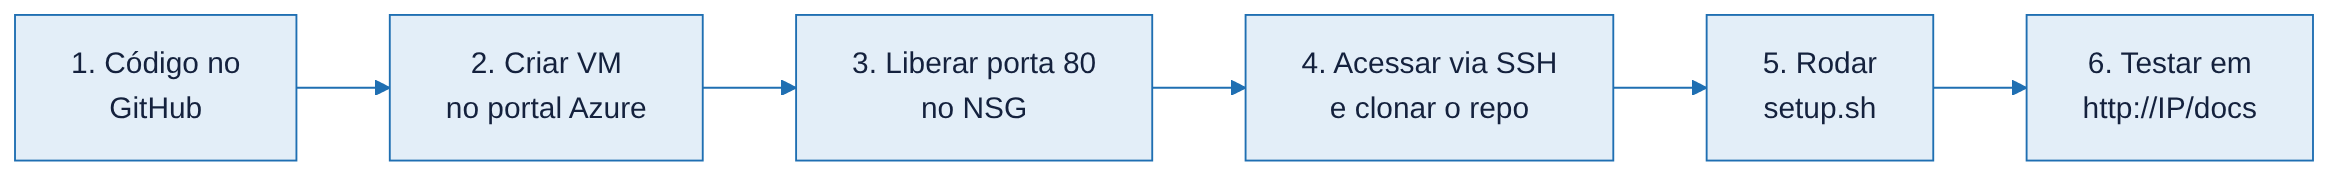
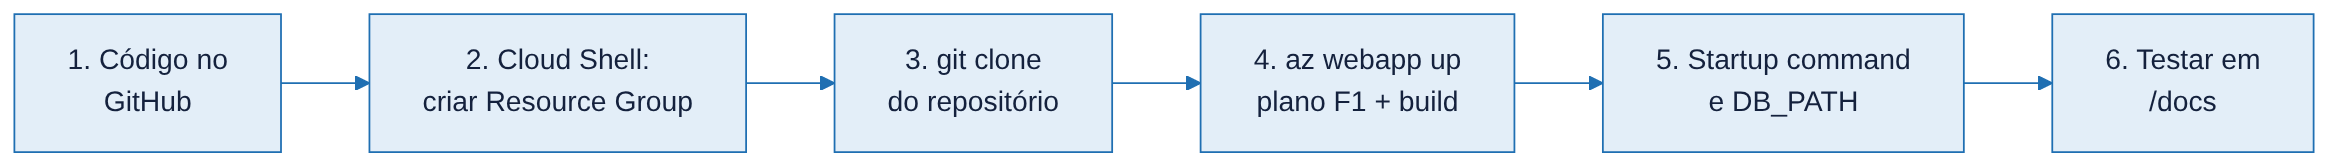
Add files via upload

Changed region(s): [[0.0, 0.0595, 0.9932, 0.9226]]

diff --git a/app/database.py b/app/database.py
@@ -2,7 +2,8 @@
 import os
 import sqlite3
 
-# Caminho do arquivo do banco. Na VM fica em /var/lib/api-tarefas/tarefas.db
+# Caminho do arquivo do banco. No Azure App Service fica em /home/tarefas.db
+# (pasta /home é o armazenamento persistente do App Service)
 DB_PATH = os.getenv("DB_PATH", "tarefas.db")
 
 

diff --git a/app/main.py b/app/main.py
@@ -16,7 +16,7 @@ async def lifespan(app: FastAPI):
 
 app = FastAPI(
     title="API de Tarefas",
-    description="API básica com SQLite hospedada em uma VM no Azure.",
+    description="API básica com SQLite hospedada no Azure App Service.",
     version="1.0.0",
     lifespan=lifespan,
 )

diff --git a/README.md b/README.md
@@ -1,9 +1,11 @@
-# API de Tarefas — FastAPI + SQLite no Azure
+# API de Tarefas — FastAPI + SQLite no Azure App Service
 
-API REST básica para cadastrar tarefas, com banco **SQLite**, hospedada de ponta a ponta em uma **máquina virtual Linux no Microsoft Azure**.
+API REST básica para cadastrar tarefas, com banco **SQLite**, hospedada de ponta a ponta no **Azure App Service (plano F1, gratuito)**.
 
-- **URL da API:** `http://<IP_PUBLICO_DA_VM>`
-- **Documentação interativa (Swagger):** `http://<IP_PUBLICO_DA_VM>/docs`
+- **URL da API:** https://api-tarefas-noah567256.azurewebsites.net
+- **Documentação interativa (Swagger):** https://api-tarefas-noah567256.azurewebsites.net/docs
+
+Aluno: Noah Nascimento · RM 567256
 
 ## Tecnologias
 
@@ -12,15 +14,26 @@ API REST básica para cadastrar tarefas, com banco **SQLite**, hospedada de pont
 | Linguagem | Python 3.12 |
 | Framework da API | FastAPI + Pydantic |
 | Servidor de aplicação | Uvicorn |
-| Proxy reverso | Nginx |
-| Banco de dados | SQLite (arquivo `tarefas.db`) |
-| Nuvem | Microsoft Azure: VM Standard_B1s, Ubuntu 24.04 LTS |
+| Banco de dados | SQLite (arquivo `/home/tarefas.db`) |
+| Nuvem | Microsoft Azure App Service, Linux, plano F1 (Free), região East US |
+| Implantação | Azure Cloud Shell + Azure CLI (`az webapp up`) |
 
 ## Arquitetura
 
 ![Arquitetura](docs/diagramas/arquitetura.png)
 
-O usuário acessa o IP público da VM na porta 80. O NSG (firewall do Azure) libera só as portas 22 (SSH) e 80 (HTTP). Dentro da VM, o Nginx recebe a requisição e repassa para o Uvicorn na porta 8000, que roda a API em FastAPI. A API grava e lê os dados no arquivo SQLite, que fica no disco gerenciado da VM.
+O usuário acessa a URL `*.azurewebsites.net` por HTTPS. O front-end do App Service cuida do certificado TLS e repassa a requisição para o contêiner Linux onde o Uvicorn roda a API FastAPI na porta 8000. A API grava e lê os dados no arquivo SQLite que fica em `/home`, a área de armazenamento persistente do App Service.
+
+## Recursos de nuvem
+
+| Recurso | Configuração |
+|---|---|
+| Resource Group | `rg-api-tarefas` |
+| Região | East US |
+| App Service Plan | SKU **F1 (Free)**, Linux: 1 GB de memória, 1 GB de armazenamento, 60 min de CPU/dia |
+| Web App | `api-tarefas-noah567256`, Python 3.12 |
+| Startup command | `python -m uvicorn app.main:app --host 0.0.0.0 --port 8000` |
+| Variável de ambiente | `DB_PATH=/home/tarefas.db` |
 
 ## Banco de dados
 
@@ -44,8 +57,35 @@ O usuário acessa o IP público da VM na porta 80. O NSG (firewall do Azure) lib
 Exemplo de corpo para POST/PUT:
 
 ```json
-{ "titulo": "Estudar Azure", "descricao": "Revisar VMs e NSG", "concluida": false }
+{ "titulo": "Estudar Azure", "descricao": "Trabalho de Cloud Security", "concluida": false }
 ```
+
+## Implantação no Azure (Cloud Shell)
+
+![Fluxo de implantação](docs/diagramas/implantacao.png)
+
+```bash
+# 1. Resource Group
+az group create --name rg-api-tarefas --location eastus
+
+# 2. Código
+git clone https://github.com/be34rpolar/api-tarefas-azure.git
+cd api-tarefas-azure
+
+# 3. Cria o plano F1 + Web App e publica o código
+APP=api-tarefas-noah567256
+az webapp up --name $APP --resource-group rg-api-tarefas --runtime "PYTHON:3.12" --sku F1 --location eastus
+
+# 4. Comando de inicialização e caminho do banco
+az webapp config set -g rg-api-tarefas -n $APP --startup-file "python -m uvicorn app.main:app --host 0.0.0.0 --port 8000"
+az webapp config appsettings set -g rg-api-tarefas -n $APP --settings DB_PATH=/home/tarefas.db
+az webapp restart -g rg-api-tarefas -n $APP
+```
+
+> A assinatura Azure for Students só permite algumas regiões. Para ver quais:
+> `az policy assignment list --query "[].parameters.listOfAllowedLocations.value" -o tsv`
+
+Para remover tudo depois: `az group delete --name rg-api-tarefas --yes`
 
 ## Rodar localmente
 
@@ -56,41 +96,7 @@ pip install -r requirements.txt
 uvicorn app.main:app --reload
 ```
 
-Abra `http://127.0.0.1:8000/docs`.
-
-Testes automatizados:
-
-```bash
-pip install pytest httpx
-pytest
-```
-
-## Implantação no Azure
-
-![Fluxo de implantação](docs/diagramas/implantacao.png)
-
-1. **Criar a VM** no portal Azure: Ubuntu Server 24.04 LTS, tamanho `Standard_B1s`, autenticação por chave SSH, portas de entrada 22 e 80.
-2. **Conectar via SSH:**
-   ```bash
-   ssh -i chave.pem azureuser@<IP_PUBLICO_DA_VM>
-   ```
-3. **Clonar e instalar:**
-   ```bash
-   git clone https://github.com/<usuario>/api-tarefas-azure.git
-   cd api-tarefas-azure
-   sudo bash deploy/setup.sh
-   ```
-4. **Testar:** `http://<IP_PUBLICO_DA_VM>/docs`
-
-O `setup.sh` instala Python, Nginx e SQLite, cria o ambiente virtual, registra a API como serviço `systemd` (sobe sozinha se a VM reiniciar) e configura o Nginx.
-
-Comandos úteis na VM:
-
-```bash
-sudo systemctl status api-tarefas      # status do serviço
-sudo journalctl -u api-tarefas -f      # logs da API
-sqlite3 /var/lib/api-tarefas/tarefas.db "SELECT * FROM tarefas;"
-```
+Abra `http://127.0.0.1:8000/docs`. Testes: `pip install pytest httpx && pytest`
 
 ## Estrutura do projeto
 
@@ -100,10 +106,7 @@ api-tarefas-azure/
 │   ├── main.py            # rotas da API
 │   └── database.py        # conexão e criação da tabela SQLite
 ├── tests/test_api.py      # testes automatizados
-├── deploy/
-│   ├── setup.sh           # instalação na VM
-│   ├── api-tarefas.service# serviço systemd
-│   └── nginx-api-tarefas.conf
 ├── docs/diagramas/        # diagramas (fonte .mmd e imagem .png)
+├── deploy/                # alternativa: implantação em VM Linux com Nginx (não usada nesta entrega)
 └── requirements.txt
 ```
